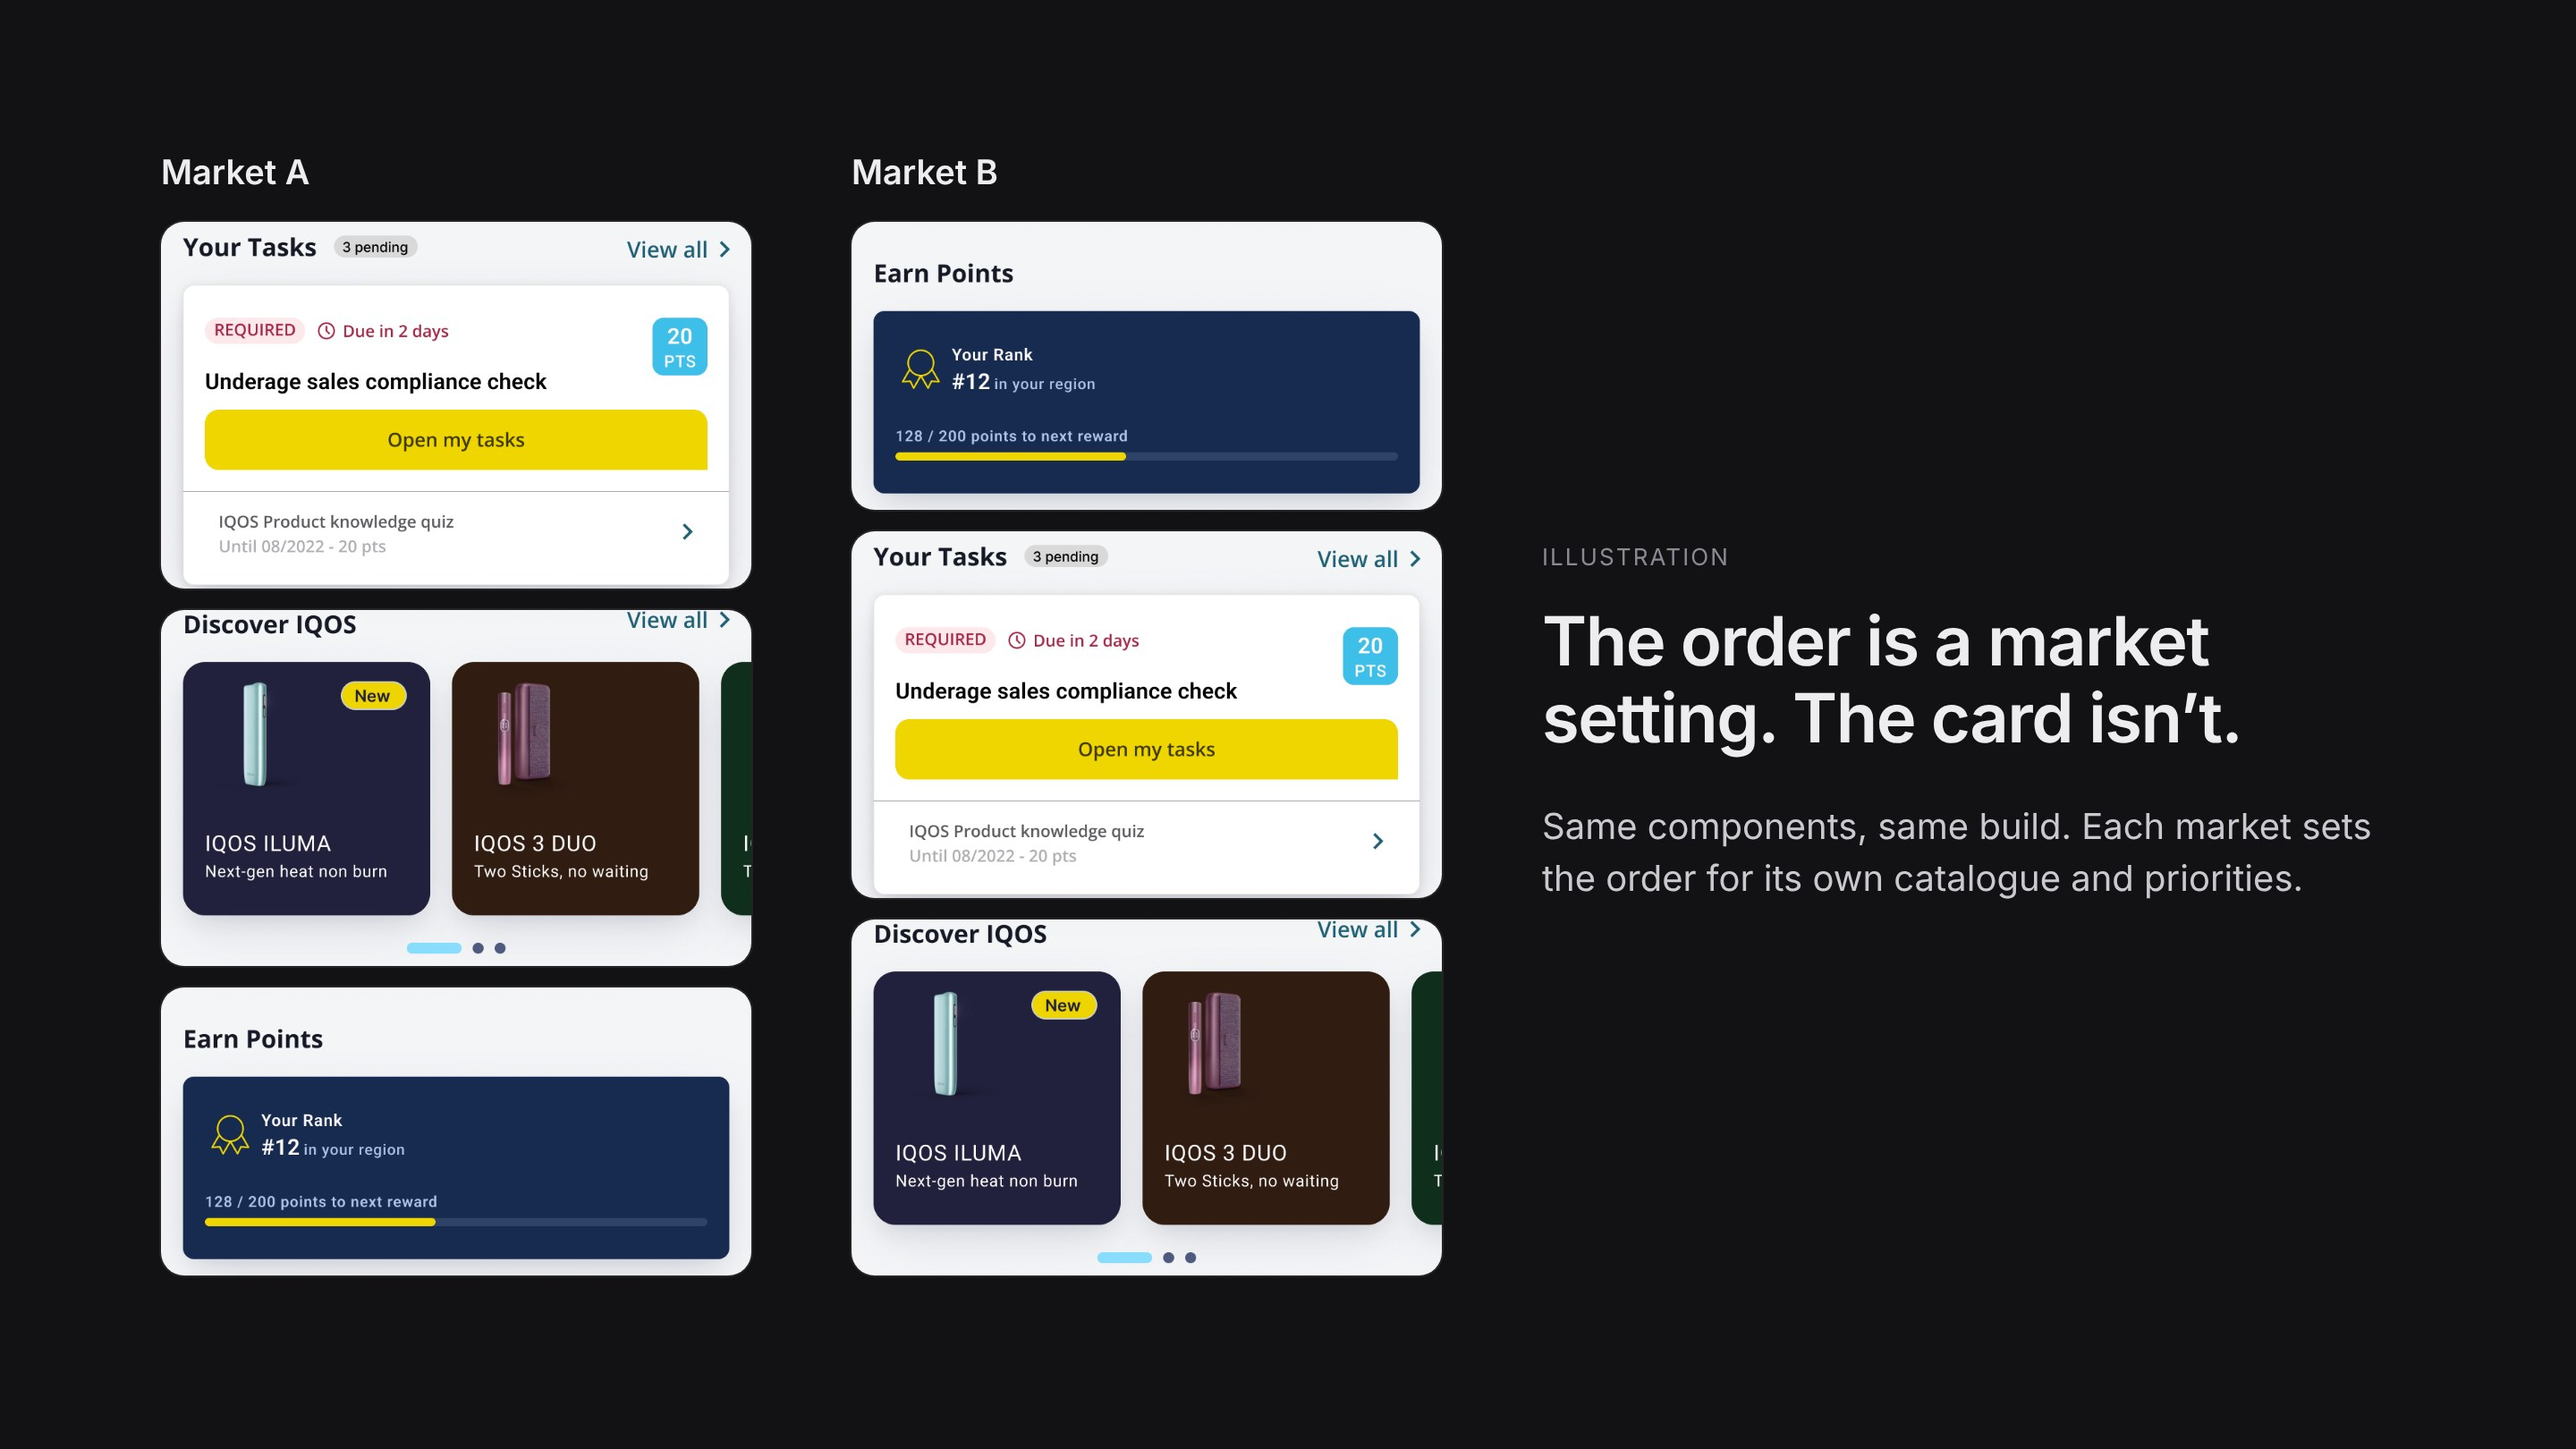
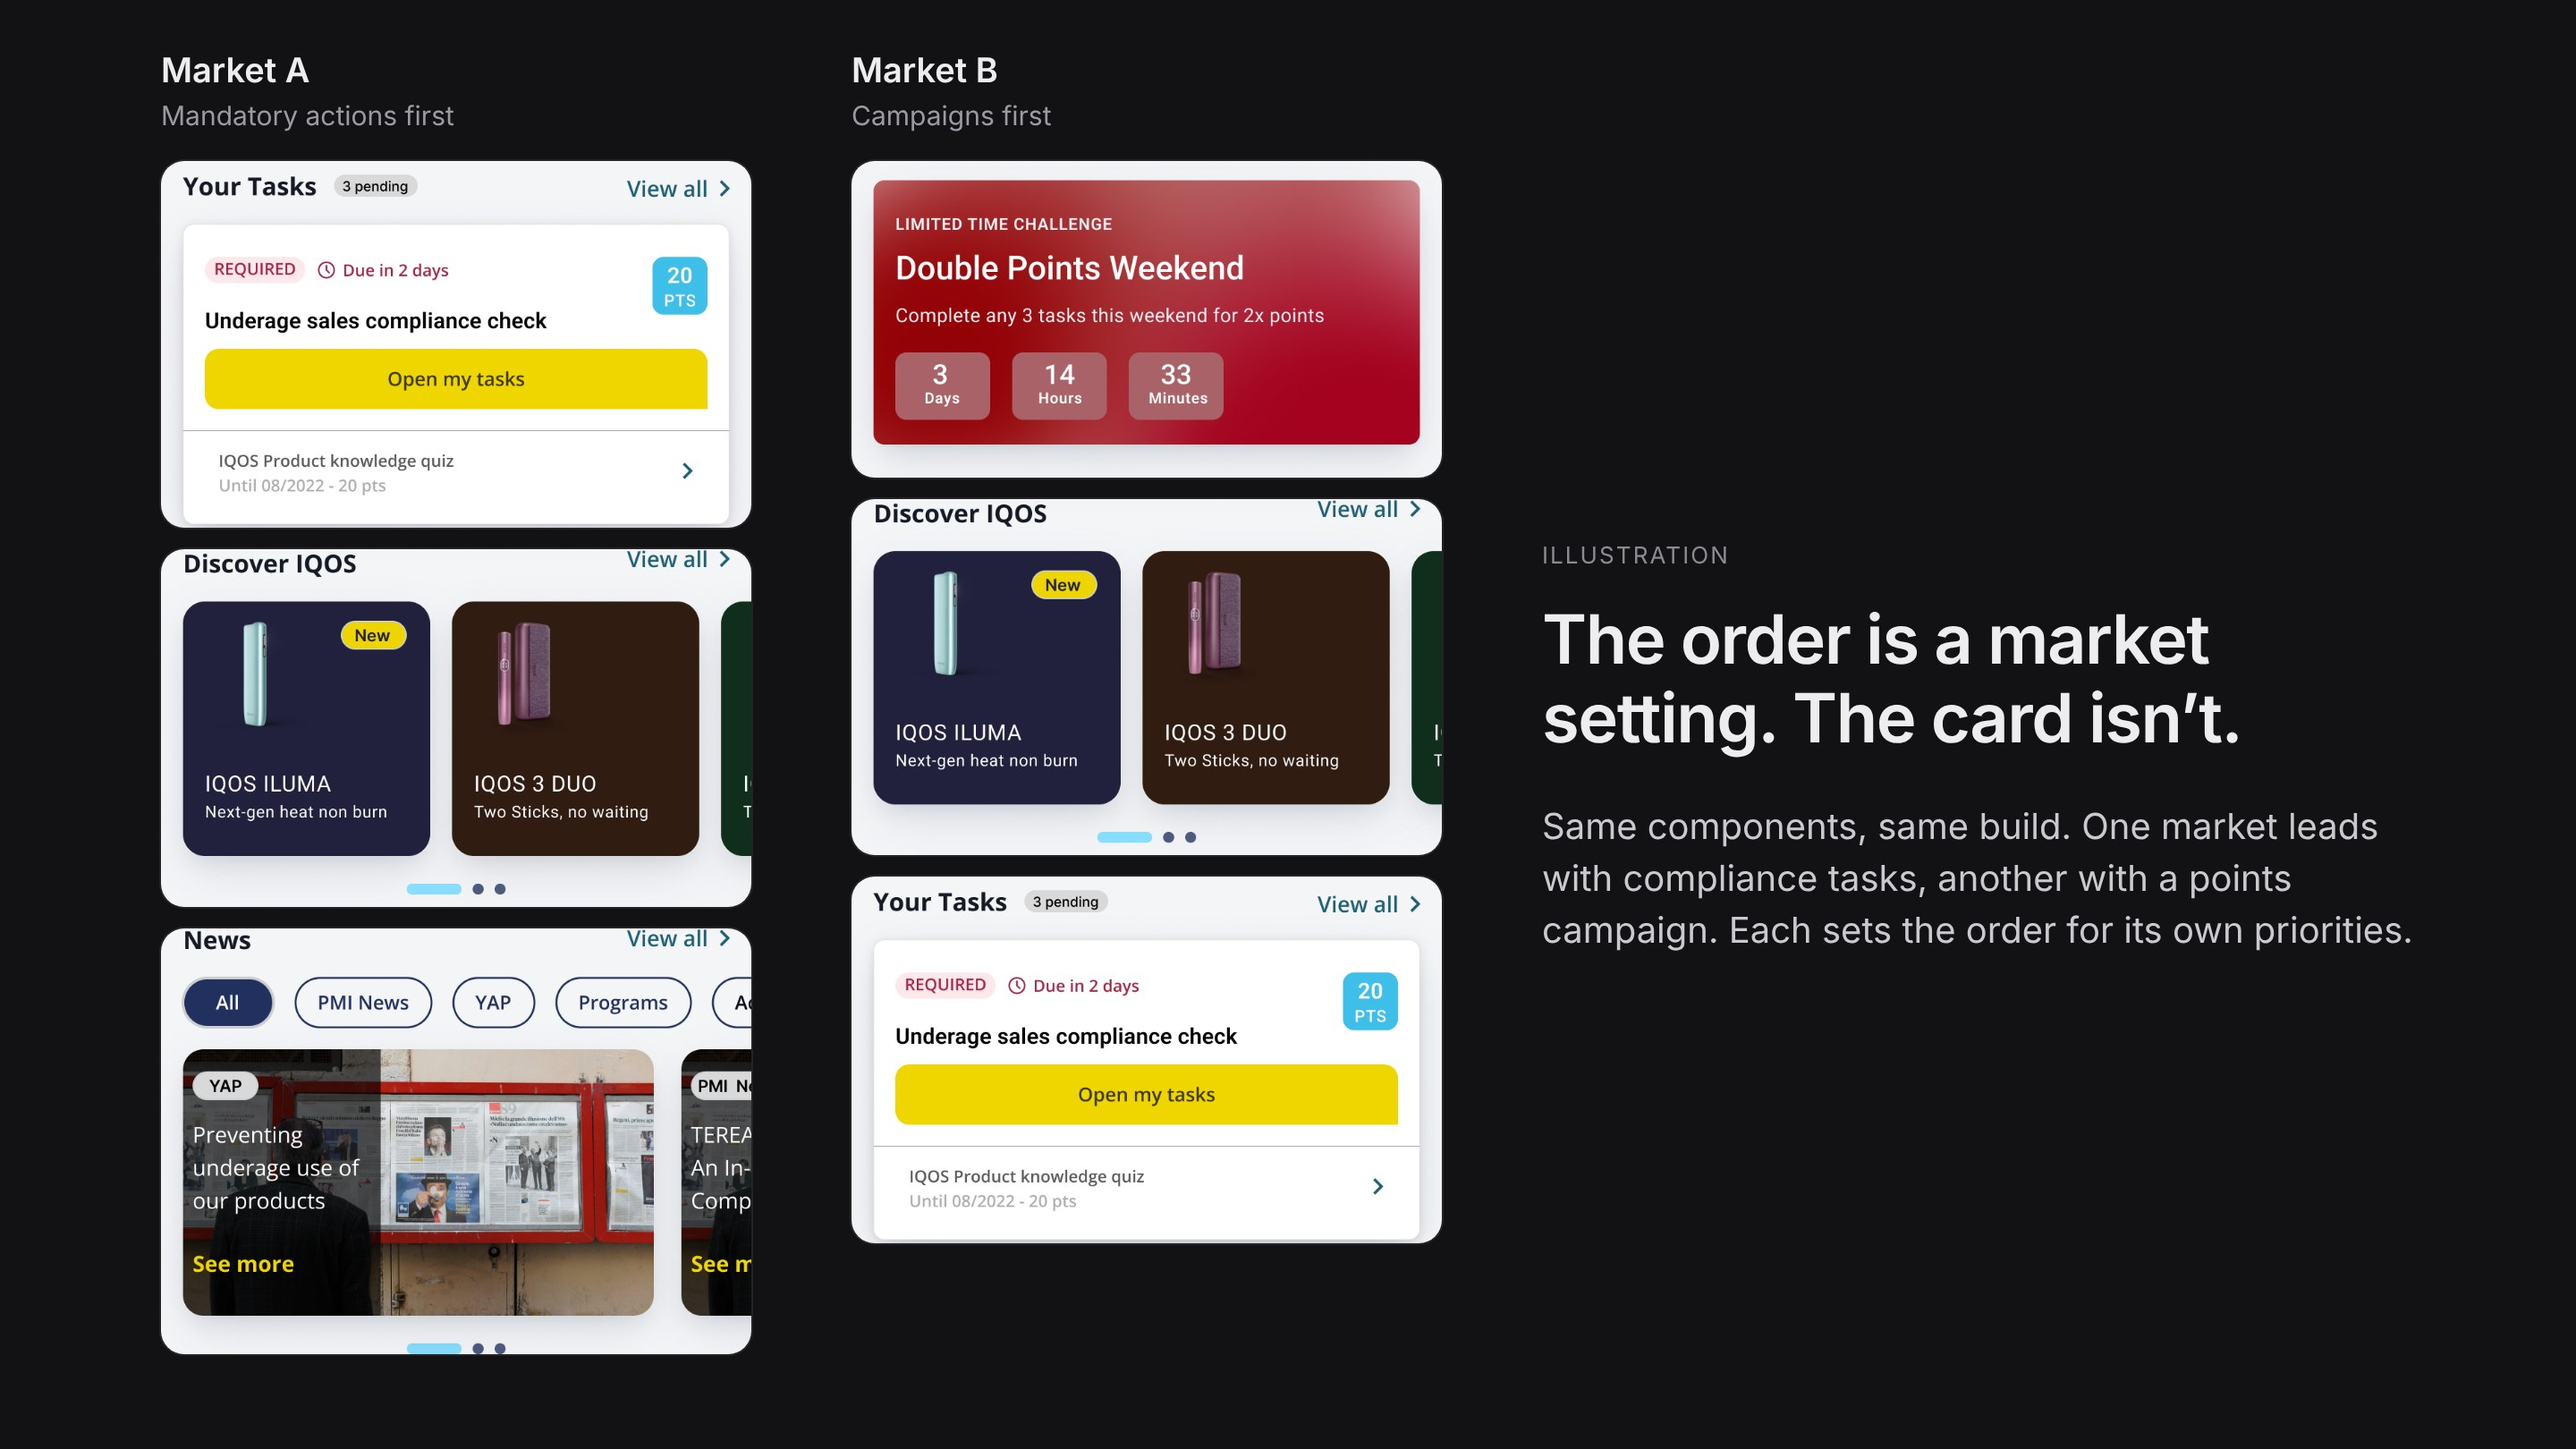
PMI: section 4 shows a task-led market against a campaign-led market
Claude-Session: https://claude.ai/code/session_01AXHPT6AWr4FLTU6gsMczeY

diff --git a/content/case-studies/pmi.md b/content/case-studies/pmi.md
@@ -63,7 +63,7 @@ Three groups pulled at the IA. The IQOS brand team wanted products in the main n
 Compliance set the hard lines, the research settled the rest, and inside that each market could reorder. The same homepage card carries a different task order in every market, because the order is a market setting and the card isn't.
 
 ::image full s4-ordering.jpg
-An illustration built from shipped components: each market sets the order, the card stays the same.
+An illustration built from shipped components: one market leads with mandatory tasks, another with a points campaign. Same cards, different order.
 
 ### 5. Results
 
